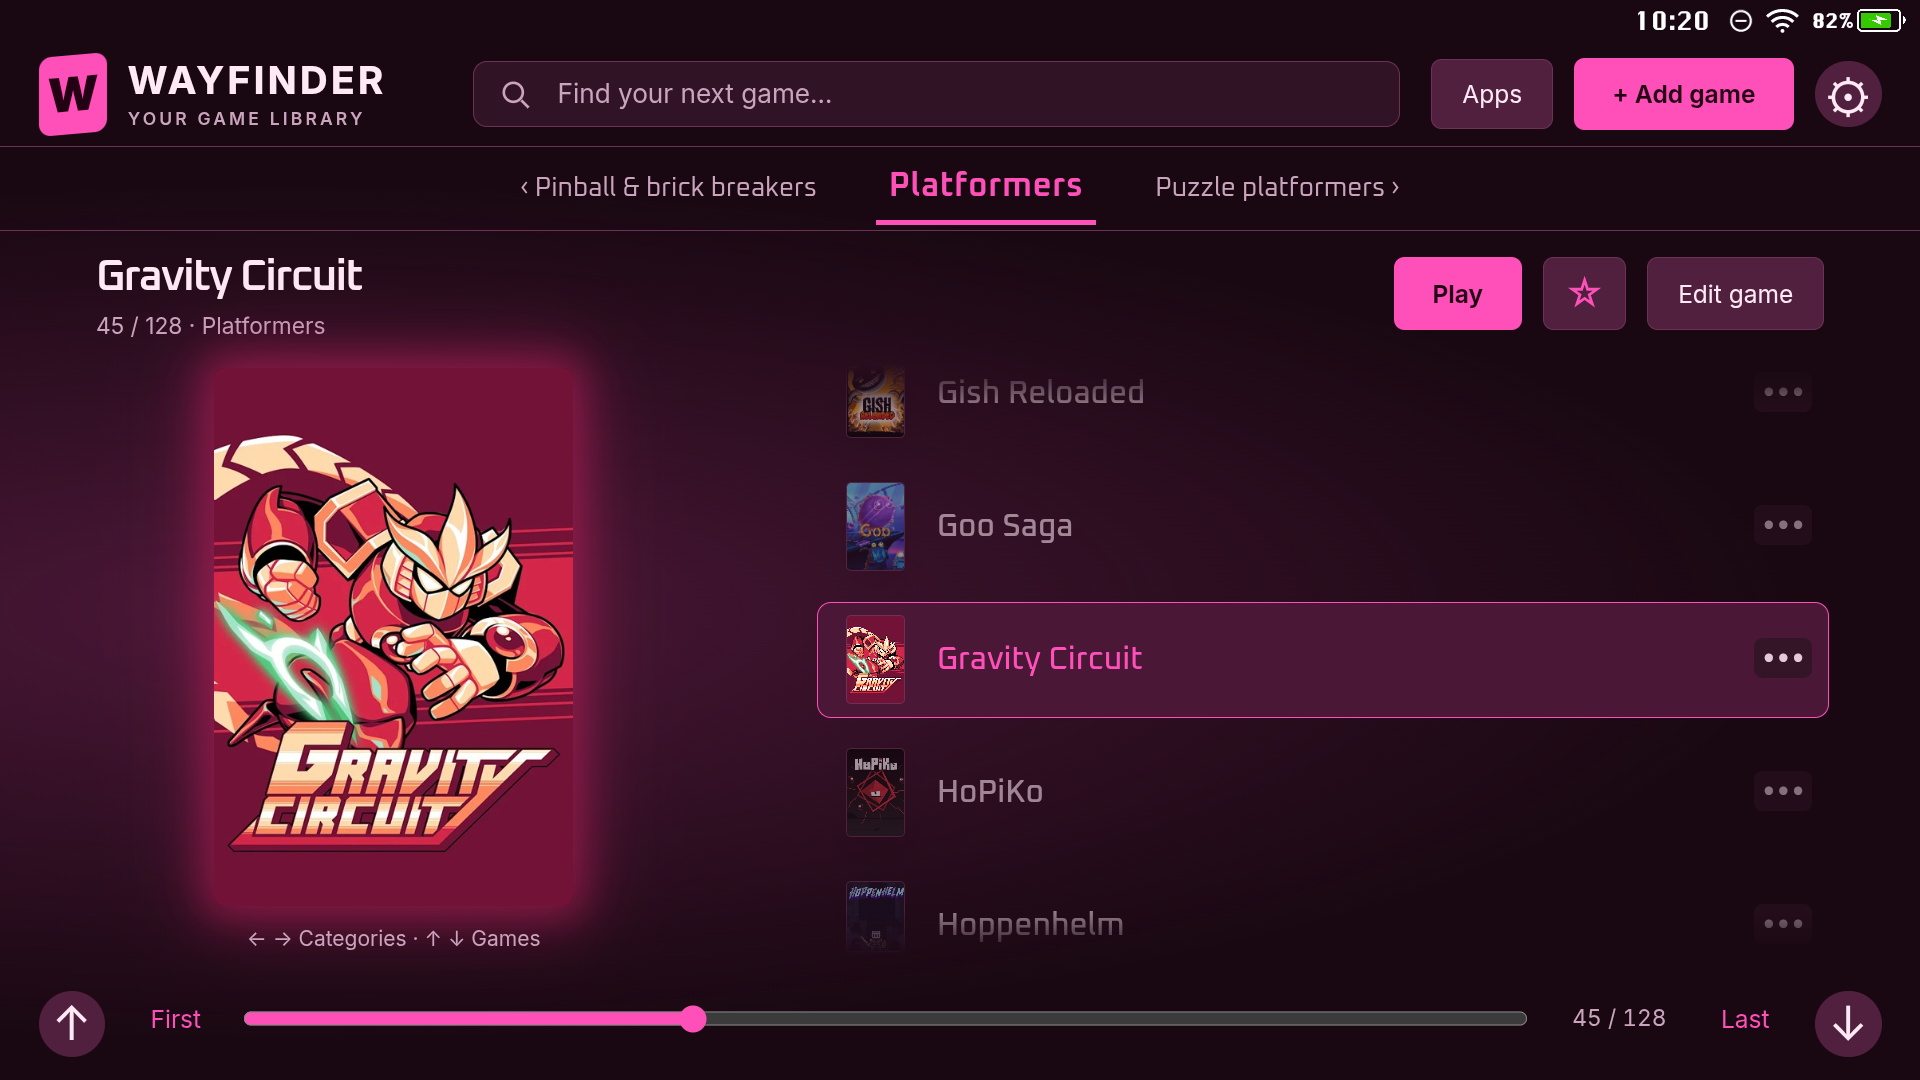
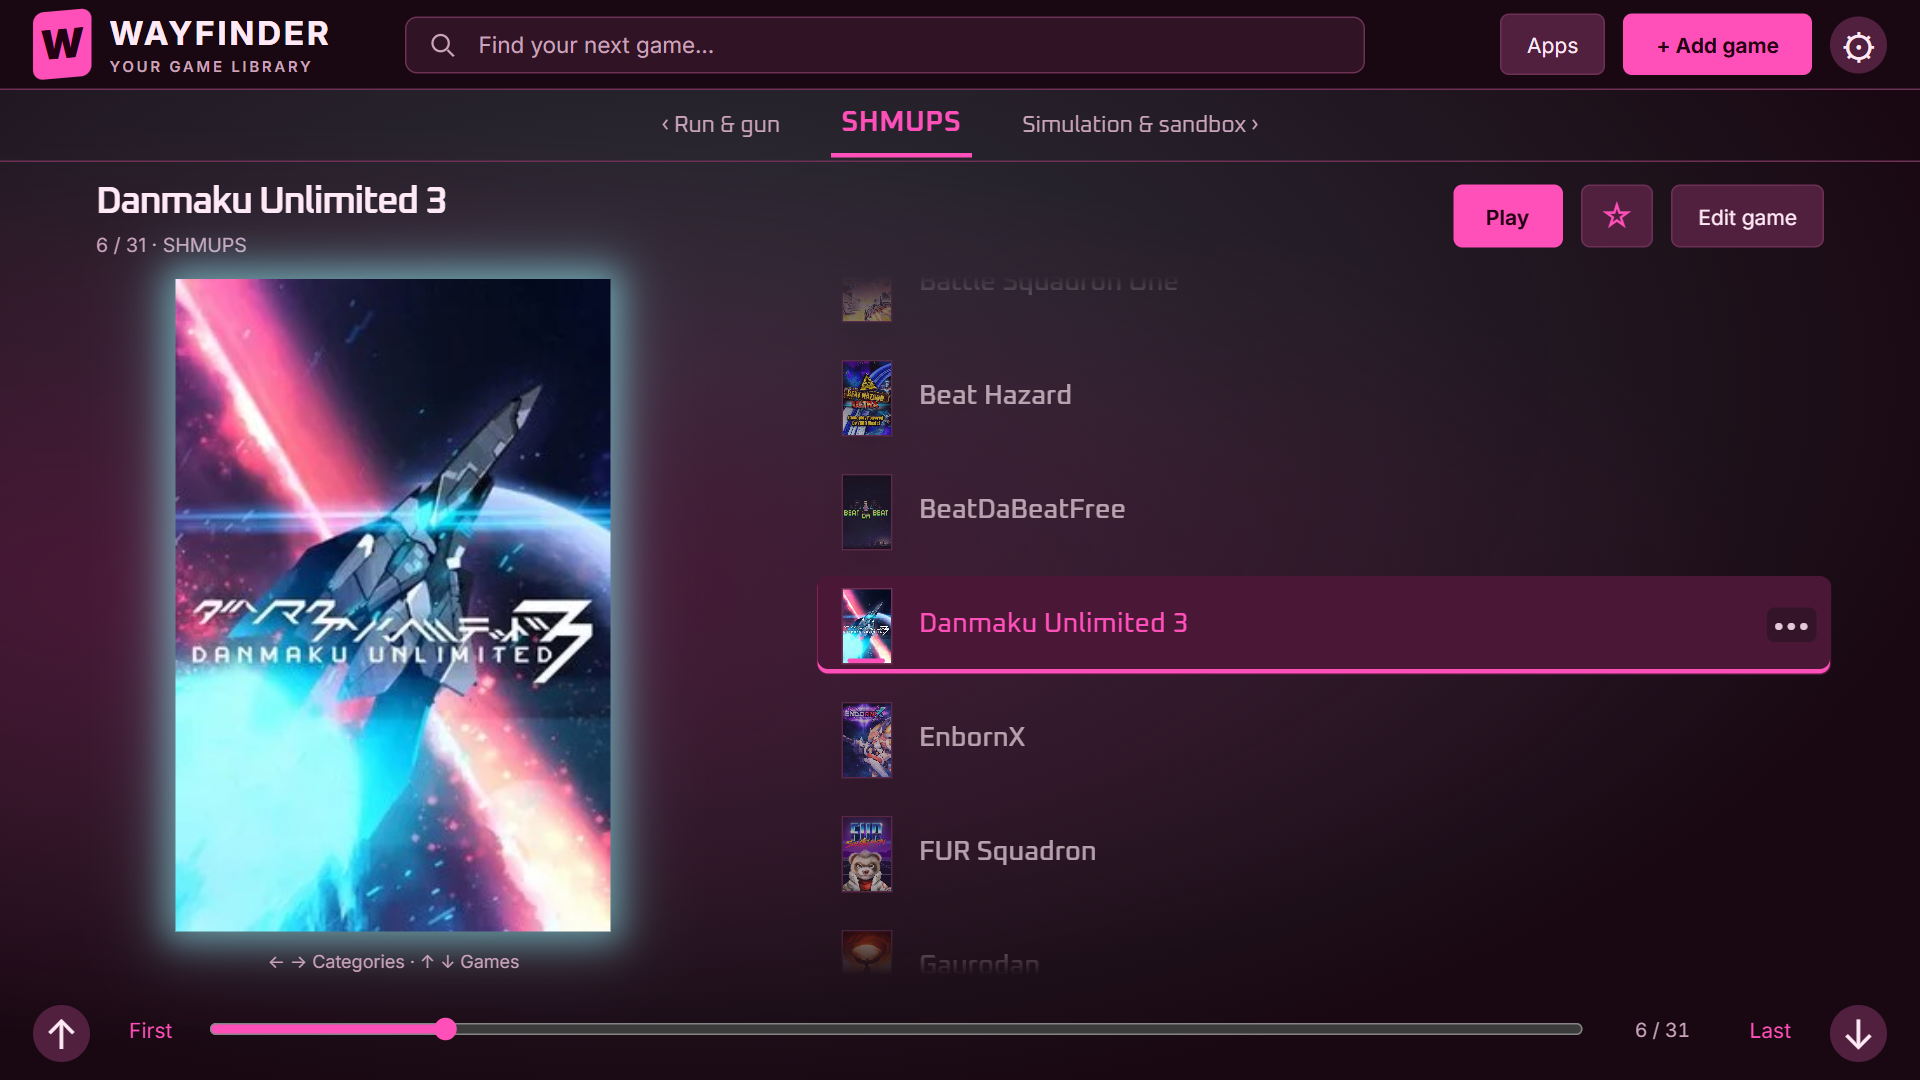
Refresh seven-look screenshot gallery for Beta 3

diff --git a/README.md b/README.md
@@ -4,7 +4,7 @@
 
 > **Beta software.** This is a vibe-coded app made with the help of **GPT-6 Astra**.
 
-[Download the beta APK](https://github.com/androidgyny/wayfinder/releases/tag/v0.9.25-beta.2)
+[Download the beta APK](https://github.com/androidgyny/wayfinder/releases/tag/v0.9.40-beta.3)
 
 Wayfinder makes a substantial library of Android games easy to browse with a touchscreen and game controller. It puts cover artwork, clear categories, and quick navigation at the center of the experience.
 
@@ -29,7 +29,8 @@ The goal is simple: make a library of hundreds—or thousands—of Android games
 - **Artwork fitting and cropping**, with options to fit or fill game tiles.
 - **Eleven color schemes**, including bright green and pink, warm Parchment, Midnight Blue, Sea Glass, Terracotta, and Graphite.
 - **Eight typography choices:** Computer, Editorial, Clean, Space Grotesk, Outfit, Oxanium, Space Mono, and IBM Plex Sans, all included for offline use.
-- **An optional soft glow** sampled from the selected cover.
+- **Appearance controls:** cover halos, gradient backdrops, selection markers, cover corners, and brightness.
+- **Saved appearance presets**, including Default, Launchbiz, Niagaramond, iTomes, and Playrite.
 - **Optional interface sounds and background audio** from a user-selected file.
 - **An optional startup video**, with support for a custom replacement.
 - **An app drawer** for non-game Android apps, with customizable icons and rearrangeable pins.
@@ -78,35 +79,35 @@ Adding a library entry does not install the game. Games must already be installe
 
 ## Appearance gallery
 
-The same library, shown with different presentation themes, color schemes, and typography. These screenshots show an example collection; games and personal cover artwork are not bundled.
+The same library, shown in seven different presentation themes, color schemes, and typography choices. These captures use the current app interface in a browser with an example collection; games and personal cover artwork are not bundled.
 
-### Cupertino · Midnight Blue · Outfit
+### Cupertino · Graphite · Outfit
 
-![Cupertino · Midnight Blue · Outfit. Night in the Woods selected in coverflow, with subtle reflections and the title below the covers.](docs/screenshots/wayfinder-cupertino-midnight.png)
+![Night in the Woods in Coverflow, with classic reflections, a cover halo, and a gradient backdrop.](docs/screenshots/wayfinder-cupertino-graphite.png)
 
-### Vienna · Terracotta · Editorial
+### Berlin · Midnight Blue · Clean
 
-![Vienna · Terracotta · Editorial. Puzzle platformers expanded with Braid selected, between compact category shelves.](docs/screenshots/wayfinder-vienna-terracotta.png)
-
-### Berlin · Hacker Green · Computer
-
-![Berlin · Hacker Green · Computer. A dense contact sheet of All games, with Gravity Circuit selected.](docs/screenshots/wayfinder-berlin-hacker.png)
+![A Playrite-inspired cover grid with Katana ZERO selected.](docs/screenshots/wayfinder-berlin-midnight.png)
 
 ### Oxford · Parchment · Editorial
 
-![Oxford · Parchment · Editorial. A title list and large cover preview, with Broken Age selected.](docs/screenshots/wayfinder-oxford-parchment.png)
+![Tengami selected in the quiet Niagaramond title-list layout.](docs/screenshots/wayfinder-oxford-parchment.png)
 
 ### Tokyo · Hot Pink · Oxanium
 
-![Tokyo · Hot Pink · Oxanium. Gravity Circuit selected in a vertical list beside its glowing cover.](docs/screenshots/wayfinder-tokyo-pink.png)
+![Danmaku Unlimited 3 beside a vertical game list, with a neon palette and cover halo.](docs/screenshots/wayfinder-tokyo-pink.png)
 
-### Cupertino · Parchment · Editorial
+### Vienna · Terracotta · Editorial
 
-![Cupertino · Parchment · Editorial. Broken Age selected in a light coverflow layout with subtle reflections.](docs/screenshots/wayfinder-cupertino-parchment.png)
+![Braid on the expanded Puzzle platformers shelf, with compact previews and space between categories.](docs/screenshots/wayfinder-vienna-terracotta.png)
 
-### Kyoto · Sea Glass · Clean
+### Kyoto · Sea Glass · Space Grotesk
 
-![Kyoto · Sea Glass · Clean. Large game tiles with Braid selected and its title below the covers.](docs/screenshots/wayfinder-kyoto-seaglass.png)
+![Mimpi selected among large rounded covers, with its title below.](docs/screenshots/wayfinder-kyoto-seaglass.png)
+
+### Alexandria · Amber · IBM Plex Sans
+
+![Ara Fell selected in an amber cover grid with sidebar categories.](docs/screenshots/wayfinder-alexandria-amber.png)
 
 ## Local library, personal artwork
 
